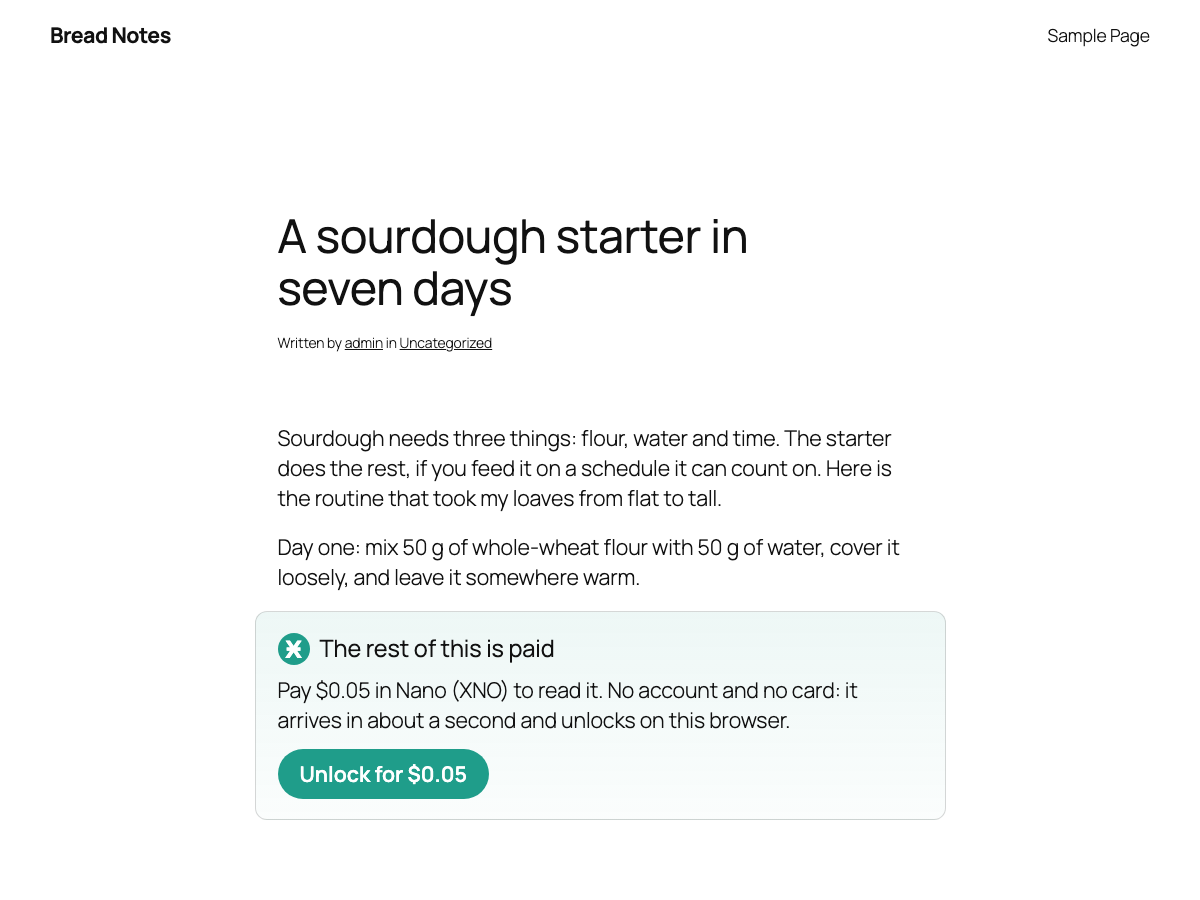
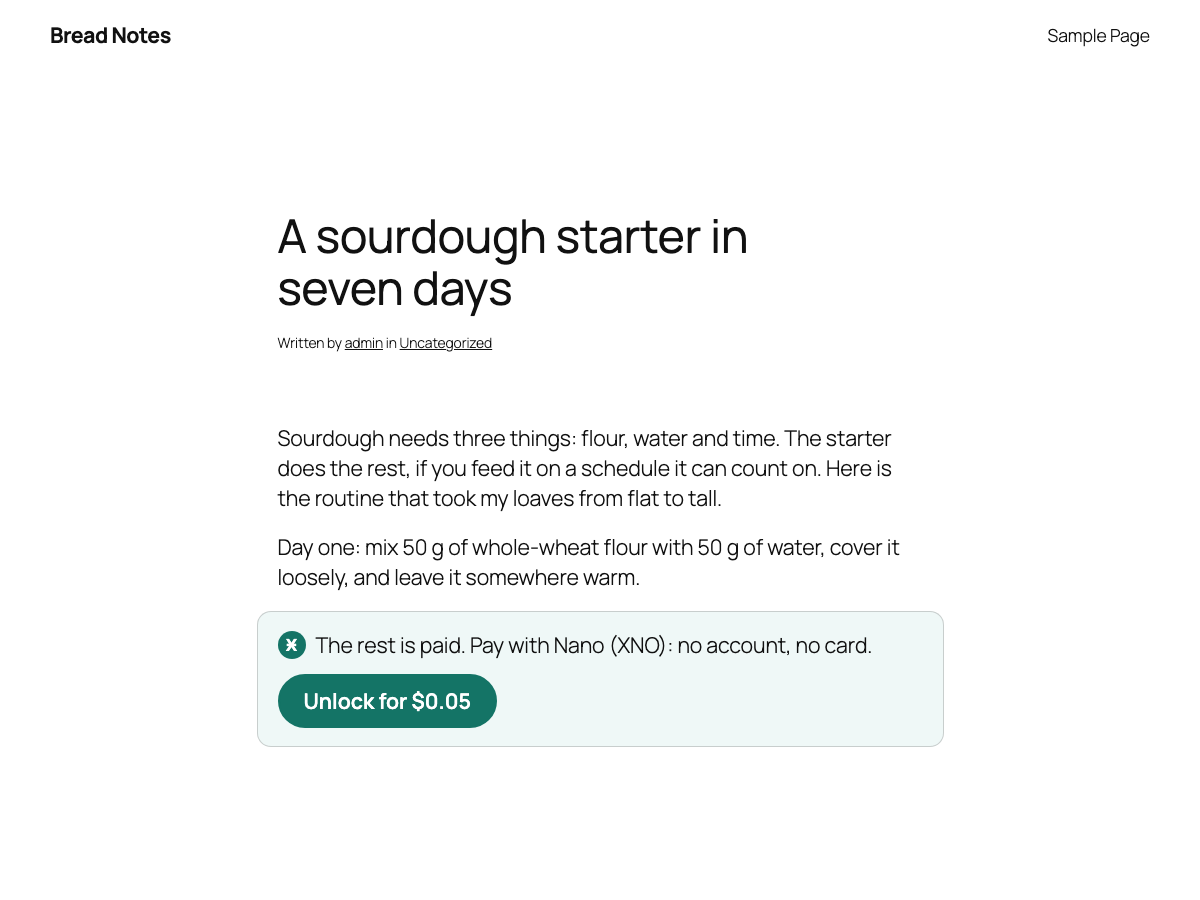
Version 0.1.2: readme and README for the clean amounts, new screenshots
readme.txt: the stable tag and the changelog; the FAQ on rounded amounts says
the amount is exact and has at most four decimals, which wallets were checked
(none with 0.1.2 yet; Cake Wallet never) and what Cancel does; a FAQ on wrong
matches and on what the plugin keeps about readers; External services names
the node call on Cancel. README: the reservation, Cancel, coincidences,
wallets, the limits and the tests. The WordPress.org screenshots show the new
card (their mock payer is now a real account, not a keyless address).
blueprint.json names no version and still points at the latest release.

Changed region(s): [[0.2158, 0.6844, 0.7092, 0.9022]]

diff --git a/nano-unlock/nano-unlock.php b/nano-unlock/nano-unlock.php
@@ -2,7 +2,7 @@
 /**
  * Plugin Name:       Nano Unlock
  * Description:       Sell part of a post for a few cents in Nano (XNO). Readers pay your address directly; this site checks the payment with a Nano node. No account, no card, no middleman.
- * Version:           0.1.1
+ * Version:           0.1.2
  * Requires at least: 6.3
  * Requires PHP:      7.4
  * Author:            nano133
@@ -15,7 +15,7 @@
 
 defined( 'ABSPATH' ) || exit;
 
-define( 'NANO_UNLOCK_VERSION', '0.1.1' );
+define( 'NANO_UNLOCK_VERSION', '0.1.2' );
 define( 'NANO_UNLOCK_FILE', __FILE__ );
 define( 'NANO_UNLOCK_DIR', plugin_dir_path( __FILE__ ) );
 define( 'NANO_UNLOCK_URL', plugin_dir_url( __FILE__ ) );

diff --git a/nano-unlock/blocks/paywall/index.asset.php b/nano-unlock/blocks/paywall/index.asset.php
@@ -7,5 +7,5 @@
 
 return array(
 	'dependencies' => array( 'wp-blocks', 'wp-element', 'wp-block-editor', 'wp-components', 'wp-i18n' ),
-	'version'      => '0.1.1',
+	'version'      => '0.1.2',
 );

diff --git a/README.md b/README.md
@@ -72,25 +72,49 @@ the paid part with a dashed border and a note, so they can check it.
 2. **The checkout.** `POST /wp-json/nano-unlock/v1/checkout` converts the
    price to XNO at the current rate (the median of CoinGecko, Kraken and
    KuCoin, cached for five minutes; the last good rate is used for up to a
-   day if all fail), rounds it up to 0.0001 XNO, and adds a random tail of
-   1 to 999999 raw (at most 0.000000000000000000000001 XNO). That **unique
-   amount** identifies the payment, so no memo is needed. A unique key in the
-   database guarantees that no two open checkouts ask for the same amount.
+   day if all fail) and rounds it up to 0.0001 XNO (a "step"). That **clean
+   amount**, with no tail, is the checkout's own amount while no other open
+   checkout holds it; otherwise the checkout gets the next free step
+   (Ӿ0.1512, Ӿ0.1513, …). So an amount has **at most four decimals**, and a
+   wallet that rounds to four decimals (Cake Wallet cut 0.1.1's tailed
+   amounts) still sends it exactly. The amount identifies the payment, so no
+   memo is needed, and the match stays exact: no tolerance.
+
+   **The reservation.** `amount_lock`, a unique key in the checkouts table,
+   holds each checkout's amount. `Nano_Unlock_Store::create()` reads which
+   of the price's 100 steps are held, then inserts the lowest free one; when
+   two readers pick the same free step at the same instant, the unique key
+   refuses the second insert and that reader moves on to the next step
+   (PHPUnit proves it with 24 parallel processes on one database, and the
+   end-to-end test with 110 parallel requests on MySQL). An amount is freed
+   at once when its checkout is paid or cancelled. An unpaid amount stays
+   held for the checkout's 15 minutes, the hour for late payments and 5
+   minutes more (`HOLD_AFTER`, longer than the 2-minute clock allowance
+   below), so a late payment can never meet a new checkout that got its
+   amount. At most 100 steps (Ӿ0.0099 above the price): when all are held,
+   the reader gets "Busy right now … Try again in a moment" (HTTP 503) and
+   nothing is held. One visitor (an IP address, or an IPv6 /64) may hold at
+   most 10 amounts at once, so one visitor alone can't use up a price's
+   steps; the count uses a keyed hash of the address, stored only while the
+   amount is held.
+
    The reader gets a QR code and a `nano:` link ("Open in wallet"), which
-   fill in the exact amount, and the full amount and the address with Copy
-   buttons. The amount is always shown with every digit of its tail: a
-   rounded amount (for example Ӿ0.0201 for Ӿ0.020000000000000000000000123456)
-   never matches, and the checkout says so. A payment of a wrong amount
-   unlocks nothing; the site owner sees it in the wallet and can refund it.
+   fill in the exact amount, and one line: "Pay $0.05 · Ӿ0.1512". The
+   address and the amount with Copy buttons, the expiry and one sentence of
+   help are under "Details". A payment of a wrong amount unlocks nothing;
+   the site owner sees it in the wallet and can refund it.
 3. **The check.** The page asks `POST /wp-json/nano-unlock/v1/claim` every
    two seconds. The site asks the node for the address's receivable sends
    and its recent history (a wallet may already have received the payment),
    and looks for the exact amount (at most 50 entries each: the most the
-   node.nano133.com gateway allows). A match is only a candidate: the site
-   then reads that send block with `block_info` and accepts it only when it
-   is a **confirmed send** of **exactly** that amount **to your address**,
-   first seen **after the checkout started**. With a second node, both must
-   agree.
+   node.nano133.com gateway allows). A payment that already paid a checkout
+   is skipped: an amount comes back for a new checkout after its sale, and
+   the old payment is still in the scan. A match is only a candidate: the
+   site then reads that send block with `block_info` and accepts it only
+   when it is a **confirmed send** of **exactly** that amount **to your
+   address**, first seen by the node **after the checkout started** (its
+   `local_timestamp`, with 2 minutes for the clocks; a block without one
+   never counts). With a second node, both must agree.
 4. **Once.** The payment's block hash is stored with a unique key, so one
    payment unlocks one checkout, once.
 5. **The receipt.** Only the browser that started the checkout (a random
@@ -134,7 +158,29 @@ search results, feeds, the REST API and another post's page, a paid part is
 a link to the post's page, even for a buyer.
 
 A checkout waits 15 minutes. A payment that arrives up to an hour after that
-still counts (the amount stays reserved).
+still counts (the amount stays reserved, and 5 minutes more).
+
+**Cancel** (`POST /wp-json/nano-unlock/v1/cancel`, only from the browser that
+started the checkout) first asks the node, without the shared scan: if the
+payment is there, the checkout is paid and unlocks; if it is seen but not
+confirmed, the checkout stays open; if the node does not answer, nothing is
+cancelled and the amount stays held. Otherwise the checkout ends and its
+amount is free at once. A reader who just leaves the page cancels nothing.
+
+**Coincidences.** A payment matches only an open checkout that holds exactly
+its amount, sent to the site's address after that checkout started. The
+plugin's own payments can't cross: two open checkouts never share an amount,
+and a used payment is skipped. Only an outside payment to the same address,
+of exactly that 4-decimal amount, during a reader's checkout, would unlock
+it; the owner still receives that money. Round amounts (Ӿ0.1, Ӿ1) are the
+likely ones; an address used only for the plugin has none.
+
+### Wallets
+
+Amounts have at most four decimals, because some wallets round to four (Cake
+Wallet cut a tailed amount of 0.1.1, so that payment did not match). Version
+0.1.2 was tested with the mock node only: no wallet app has paid one of its
+amounts yet, and Cake Wallet itself was not tested with any version.
 
 ### Node load
 
@@ -151,7 +197,8 @@ node.
 
 - Every REST call needs the page's REST nonce.
 - Rate limits per visitor address: 20 checkouts per 10 minutes (600 per 10
-  minutes for everyone), and 180 payment checks per minute.
+  minutes for everyone), at most 10 open checkouts at once, and 180 payment
+  checks (and cancels) per minute.
 - The visitor address is `REMOTE_ADDR`. Forwarded headers are not trusted,
   because anyone can send them. Behind a proxy or CDN, set the real header
   with the `nano_unlock_client_ip` filter.
@@ -204,8 +251,8 @@ npm install
 composer install
 npm start          # wp-env on http://localhost:8888 (admin / password), copies the plugin in
 npm run sync       # copy the plugin into wp-env again after a change
-npm test           # PHPUnit: amounts, receipts and offers, addresses, the payment rules, rendering, the REST routes, settings
-npm run test:wp    # integration tests inside WordPress: paid-part storage, migration, uninstall
+npm test           # PHPUnit: amounts and their reservation (24 parallel processes on SQLite), receipts and offers, addresses, the payment rules, rendering, the REST routes, settings
+npm run test:wp    # integration tests inside WordPress: paid-part storage, migration, amounts on MySQL and the update from 0.1.1, uninstall
 npm run lint       # PHPCS with the WordPress Coding Standards and PHPCompatibilityWP
 npm run e2e        # end-to-end test against a MOCK node (no real network, no real money)
 npm run e2e -- --shots <folder>   # the same, with screenshots
@@ -227,17 +274,30 @@ XNO rate at $0.50 with a helper mu-plugin, creates two sample posts (a
 shortcode and a block) and checks:
 
 - the paid parts are not in the HTML, the feed or the core REST API;
-- a checkout asks for a unique amount to the site's address;
+- a checkout asks for an exact, clean amount to the site's address ($0.01 at
+  $0.50 is Ӿ0.02), and the card shows "Pay $0.01 · Ӿ0.02";
+- test mode: the QR code is stamped "do not pay", with no `nano:` link and
+  no copy keys; the status is a polite live region; "Details" is a closed
+  button that Enter opens;
+- Cancel closes the card, gives the focus back to the Unlock key, and frees
+  the amount at once;
 - an unconfirmed payment shows "confirming" and unlocks nothing;
 - a confirmed payment reloads the page with the paid part (about 2 s);
 - a payment already received by the wallet (history) also counts;
 - a shared link, a forged receipt, and one post's receipt on another post
   all stay locked;
-- no nonce → 403; a changed offer → 400; a used payment on a second
-  checkout → 409; another browser gets 403 and no receipt;
-- node down → 503 and nothing unlocks;
+- no nonce → 403; a changed offer → 400; a paid amount comes back for the
+  next checkout, and the payment that paid it does not pay that one; while
+  it is held, the next checkout gets one step more; a used payment never
+  pays a second checkout; another browser gets 403 and no receipt;
+- Cancel: only the starting browser; the amount goes to the next checkout;
+  after the payment arrived, Cancel unlocks instead;
+- node down → 503 and nothing unlocks, and Cancel keeps the amount held;
 - 48 fast polls in 6 s cause 2 `receivable` and 2 history calls;
-- the 21st checkout from one address in 10 minutes → 429;
+- the 11th open checkout from one address → 429; the 21st checkout from one
+  address in 10 minutes → 429;
+- 60 parallel checkouts (60 visitors) get Ӿ0.1000 … Ӿ0.1059, no two alike;
+  50 more at once: 40 get the last steps, 10 are told "busy";
 - the settings page refuses a mistyped address and lists sales;
 - the block loads in the editor with no warnings or script errors.
 
